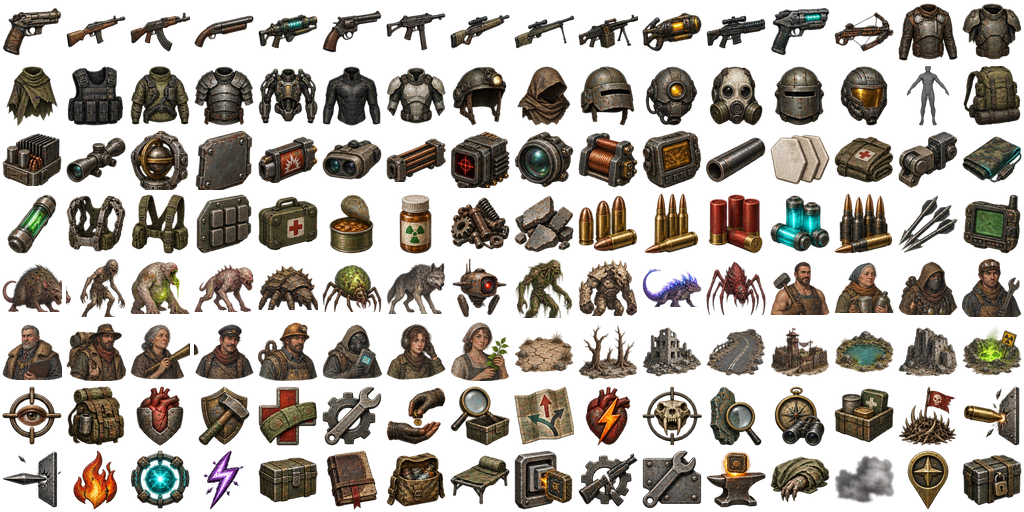
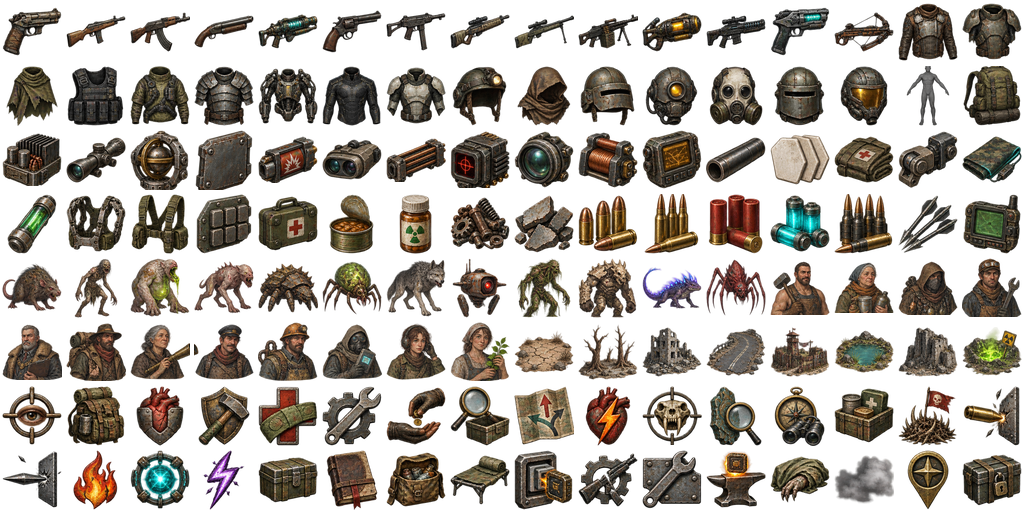
fix monsters

Changed region(s): [[0.0, 0.5, 0.4375, 0.625], [0.5, 0.5, 0.75, 0.625]]

diff --git a/tools/rebuild_monsters.py b/tools/rebuild_monsters.py
@@ -1,0 +1,69 @@
+"""Repack monster icons from intact source art. Offline: Pillow, numpy, scipy.
+
+The generated sheet is not a uniform grid: creatures cross 222px boundaries.
+Explicit rectangles separate illustrations; runtime needs no new dependencies.
+Only atlas cells 64..75 and their metadata are changed.
+"""
+from pathlib import Path
+import json
+import numpy as np
+from PIL import Image
+from scipy.ndimage import label, binary_dilation
+
+ROOT = Path(__file__).resolve().parents[1]
+BOXES = [
+    (0, 0, 250, 245), (250, 0, 440, 245),
+    (440, 0, 660, 245), (660, 0, 887, 245),
+    (887, 0, 1110, 245), (1110, 0, 1330, 245),
+    (1330, 0, 1552, 245), (1552, 0, 1774, 245),
+    (0, 245, 230, 467), (230, 245, 446, 467),
+    (446, 245, 670, 467), (670, 245, 887, 467),
+]
+
+
+def rebuild():
+    source = Image.open(ROOT / 'assets/source_3.png').convert('RGBA')
+    sprites, trims = [], []
+    for box in BOXES:
+        crop = source.crop(box)
+        alpha = np.array(crop.getchannel('A'))
+        labels, _ = label(alpha > 24)
+        areas = np.bincount(labels.ravel())
+        areas[0] = 0
+        keep = areas >= max(12, areas.max() * .02)
+        keep[0] = False
+        mask = binary_dilation(keep[labels], iterations=2)
+        crop.putalpha(Image.fromarray(np.where(mask, alpha, 0).astype('uint8')))
+        trim = crop.getchannel('A').getbbox()
+        sprites.append(crop.crop(trim))
+        trims.append(trim)
+    for path in sorted((ROOT / 'assets').glob('atlas_*.png')):
+        size = int(path.stem.split('_')[-1])
+        atlas = Image.open(path).convert('RGBA')
+        for offset, sprite in enumerate(sprites):
+            index = 64 + offset
+            x, y = index % 16 * size, index // 16 * size
+            atlas.paste((0, 0, 0, 0), (x, y, x + size, y + size))
+            pic = sprite.copy()
+            pic.thumbnail((size - 4, size - 4), Image.Resampling.LANCZOS)
+            atlas.alpha_composite(pic, (x + (size - pic.width) // 2,
+                                       y + (size - pic.height) // 2))
+        temporary = path.with_suffix(".tmp.png")
+        atlas.save(temporary, optimize=True)
+        with Image.open(temporary) as check:
+            check.load()
+        temporary.replace(path)
+    for relative in ('assets/manifest.json', 'data/sprites.json'):
+        path = ROOT / relative
+        data = json.loads(path.read_text(encoding='utf-8'))
+        for entry in data.values():
+            index = entry.get('index', -1)
+            if entry.get('source') == 3 and 64 <= index < 76:
+                entry['source_box'] = BOXES[index - 64]
+                entry['trim'] = trims[index - 64]
+        path.write_text(json.dumps(data, ensure_ascii=False, indent=2), encoding='utf-8')
+    print('Repacked 12 monsters in all 8 atlas sizes.')
+
+
+if __name__ == '__main__':
+    rebuild()

diff --git a/test_contracts.py b/test_contracts.py
@@ -2,6 +2,7 @@ from tests_fixtures.quest_offer import offer_for
 import json,tempfile,unittest
 from pathlib import Path
 from unittest.mock import patch
+import content
 import afterdays as r
 import progression as p
 from refinement_ui import description
@@ -46,7 +47,8 @@ class NewContractTests(unittest.TestCase):
   with patch.object(g.rng,'randrange',return_value=0):self.assertTrue(g.shoot(e['id']))
   self.assertEqual(b['kills'][-1]['level'],7)
  def test_city_names_and_saved_world(self):
-  bank=json.loads((Path(__file__).parent/'assets/city_names.json').read_text());self.assertEqual(len(set(bank)),1000)
+  keys=content.read('city_names.json');self.assertEqual(len(set(keys)),1000)
+  bank=[content.t(key) for key in keys]
   g=r.Game();h=r.Game();self.assertNotEqual(g.world,h.world);self.assertNotEqual(g.city_names,h.city_names)
   self.assertEqual(len(set(g.city_names)),12);self.assertTrue(set(g.city_names)<=set(bank))
   with tempfile.TemporaryDirectory() as td:
